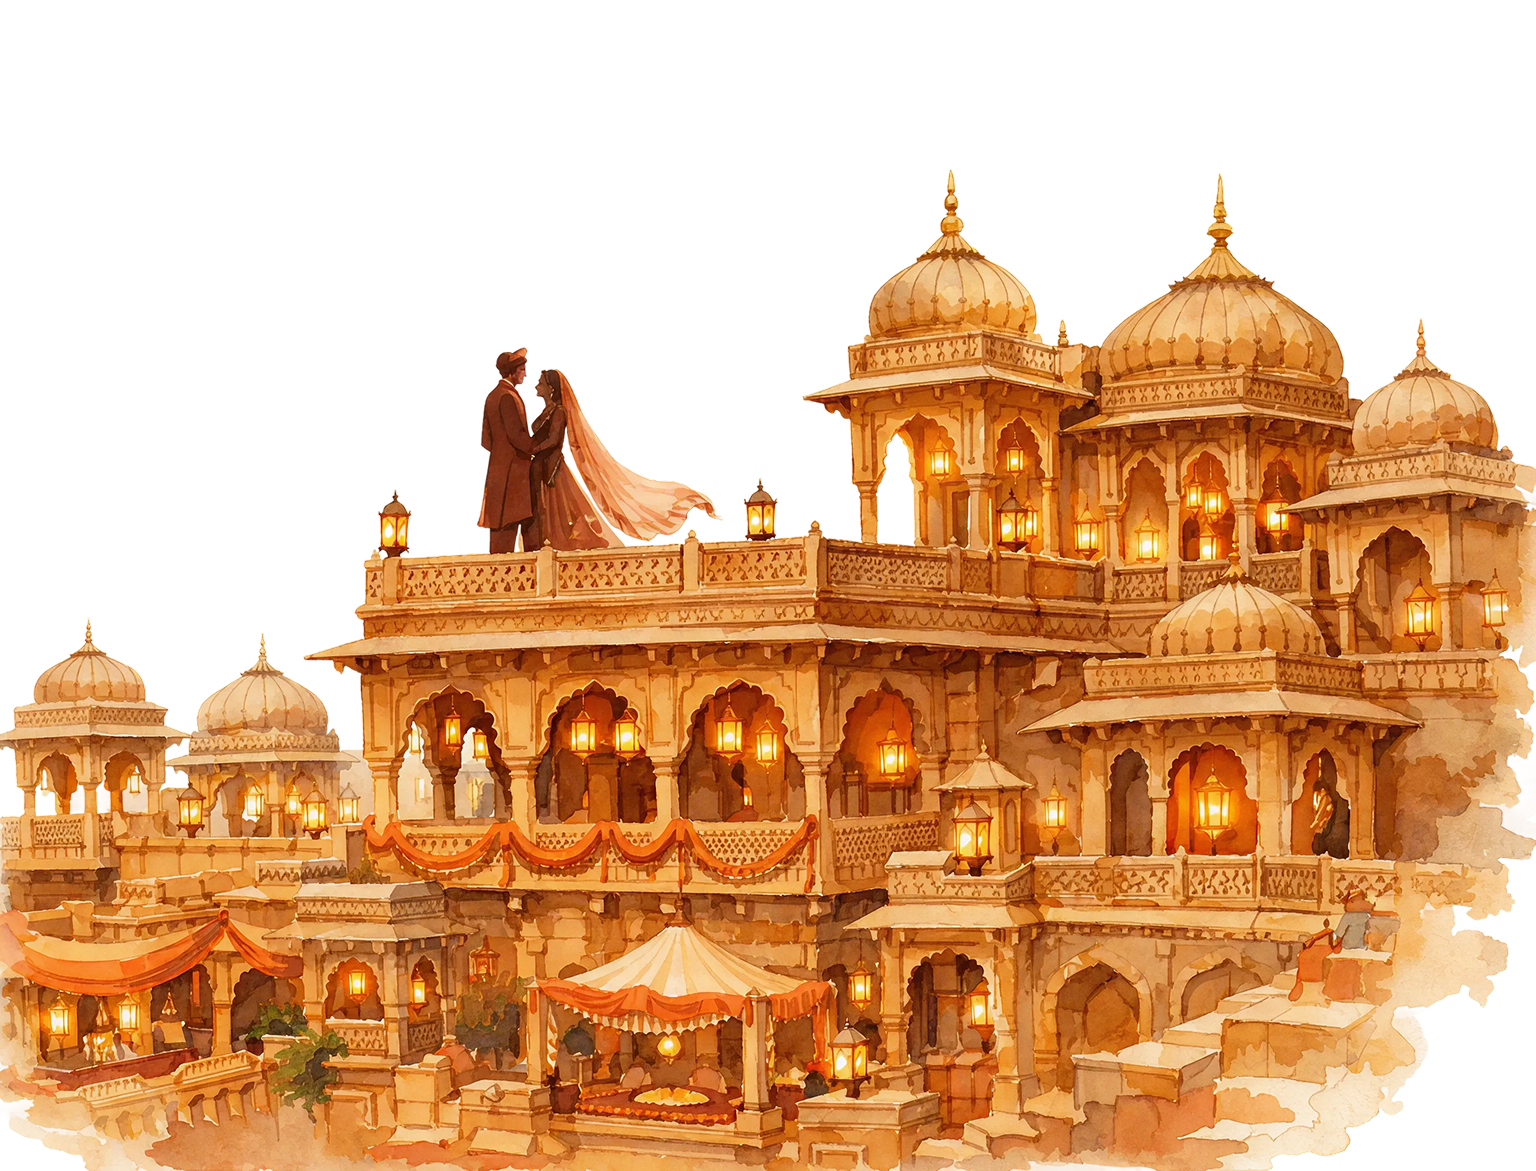
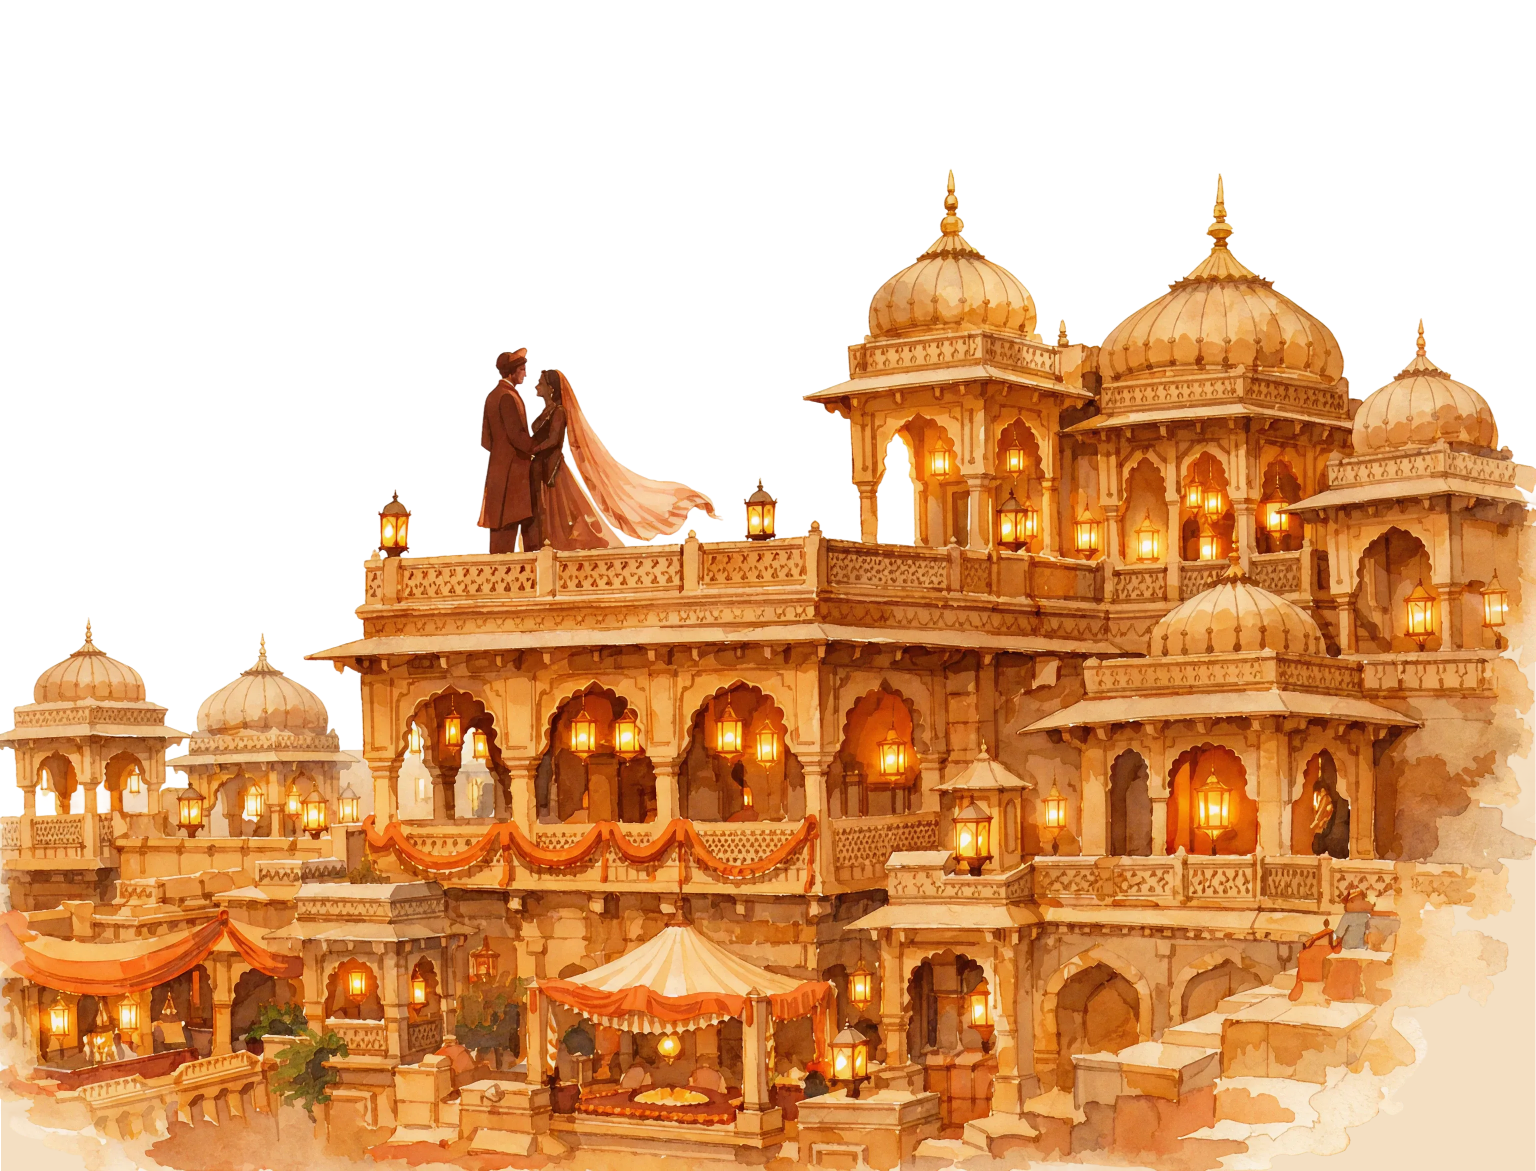
Image alignment for hero

Changed region(s): [[0.8125, 0.5534, 1.0, 1.0], [0.0, 0.9223, 0.0625, 1.0], [0.6562, 0.9838, 0.75, 1.0]]

diff --git a/wedding/index.html b/wedding/index.html
@@ -60,13 +60,12 @@
         background-image: url("images/building4.png");
         background-size: auto;
         background-repeat: no-repeat;
-        background-position: bottom center;
+        background-position: center 62%;
         z-index: 1;
       }
 
       .lantern {
         position: fixed;
-        background-image: url("https://framerusercontent.com/images/DdFrH1xuj9wKnCb1V2cCwhyUujQ.png?width=240&height=382");
         background-size: contain;
         background-repeat: no-repeat;
         background-position: center;
@@ -550,6 +549,14 @@
         opacity: 1 !important;
         transform: translateY(0) !important;
       }
+
+      @media (max-width: 500px) {
+        .bg-building {
+          background-position-x: 30%;
+          background-size: 450%;
+          background-position-y: 56%;
+        }
+      }
     </style>
   </head>
   <body>
@@ -573,7 +580,7 @@
 
       <div class="ganesha-container animate-on-scroll">
         <img
-          src="images/ganesh.svg"
+          src="images/ganesh.svg  "
           alt="Ganesha"
           class="ganesha"
         />
